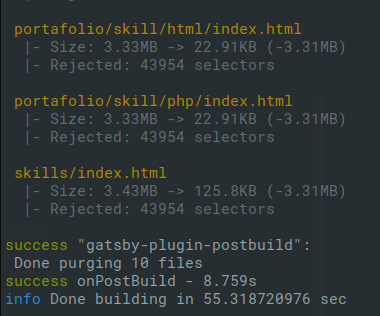
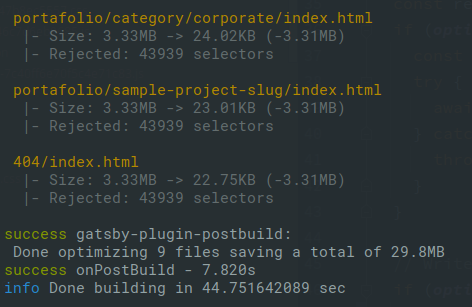
perf(plugin): add total saving to final report

diff --git a/src/index.js b/src/index.js
@@ -1,6 +1,6 @@
 import path from 'path'
 import { promises as fs } from 'fs'
-import { bootstrap, options, reporter } from './util'
+import { bootstrap, debug, reporter, options } from './util'
 import { defaults, schema } from './options'
 
 /**
@@ -32,25 +32,27 @@ export function onPreBootstrap (gatsby, pluginOptions) {
 /**
  * Run plugin tasks after build is complete.
  *
- * @param {Object} gatsby
+ * @param {Object} $0
+ * @param {Function} $0.getNodesByType
  * @return {Promise<void>}
  */
-export async function onPostBuild (gatsby) {
+export async function onPostBuild ({ getNodesByType }) {
   if (!options.enabled) {
     return
   }
-  const pages = gatsby.getNodesByType('SitePage')
+  const pages = getNodesByType('SitePage')
   const html = []
   for (const page of pages) {
     const filename = path.join(options._public, page.path, 'index.html')
     try {
       await fs.access(filename)
       html.push(filename)
-    } catch (e) {}
+    } catch (e) {} // ignore silently
   }
 
   const tasks = require('./tasks')
   try {
+    debug('Running purgecss task on', html)
     await tasks.purgecss({ html })
   } catch (e) {
     reporter.error('Error occured while running purgecss', e)

diff --git a/src/tasks/purgecss/writer.js b/src/tasks/purgecss/writer.js
@@ -4,7 +4,13 @@ import filesize from 'filesize'
 import { options } from '../../util'
 
 export class FileWriter {
+  formatSize
   reports = []
+  saving = 0
+
+  constructor () {
+    this.formatSize = filesize.partial({ spacer: '' })
+  }
 
   /**
    * Writes the purged asset file on disk
@@ -24,6 +30,7 @@ export class FileWriter {
       sizes.push((await fs.stat(file)).size)
       sizes.push(Buffer.byteLength(data))
       sizes.push(sizes[1] - sizes[0])
+      this.saving += sizes[2]
       // Write the actual file
       await fs.writeFile(file, data)
       // Write purged log if enabled
@@ -36,7 +43,7 @@ export class FileWriter {
 
     const r = {
       file: path.relative(options._public, file),
-      sizes: sizes.map(filesize.partial({ spacer: '' })),
+      sizes: sizes.map(this.formatSize),
       rejected: rejected ? purged.length : undefined
     }
     this.reports.push(r)
@@ -58,5 +65,13 @@ export class FileWriter {
 
   getReports () {
     return this.reports
+  }
+
+  getTotalSaving () {
+    const saving = this.saving * -1
+    return [
+      saving,
+      this.formatSize(saving)
+    ]
   }
 }

diff --git a/src/tasks/purgecss/index.js b/src/tasks/purgecss/index.js
@@ -10,10 +10,11 @@ import { createDebug, options, reporter } from '../../util'
 /**
  * Runs purgecss on the html files provided
  *
- * @param {Object} assets Absolute file paths
- * @param   {[string]} assets.html
+ * @param {Object} $0
+ * @param   {[string]} $0.html - html absolute file paths
  */
 export default async function ({ html }) {
+  if (html.length === 0) return
   const debug = createDebug('purgecss')
   const writer = new FileWriter()
   const purger = new Purger(writer)
@@ -43,8 +44,12 @@ export default async function ({ html }) {
 
   // Write success message
   if (options.reportConsole) {
-    // Adds a margin after the last report output
-    console.log('')
+    console.log('') // Adds a margin after the last report output
   }
-  reporter.success(`Done purging ${reports.length} files`)
+  const saving = writer.getTotalSaving()
+  reporter.success(`Done optimizing ${reports.length} files` + (
+    saving[0]
+      ? ` saving a total of ${saving[1]}`
+      : ''
+  ))
 }

diff --git a/src/util.js b/src/util.js
@@ -23,11 +23,10 @@ const store = new Map([
 /**
  * Initializes plguin options and other utilities
  *
- * @param {Object=} args
- * @param   {Object} args.defaultOptions - Options defaults
- * @param   {Object} args.pluginOptions - Plugin options
- * @param   {Object} args.gatsby - Gatsby's onPreBootstrap event object
- * @return {Object} Plugin options
+ * @param {Object} $0
+ * @param   {Object} $0.defaultOptions - Options defaults
+ * @param   {Object} $0.pluginOptions - Plugin options
+ * @param   {Object} $0.gatsby - Gatsby's onPreBootstrap event object
  */
 export function bootstrap ({ defaultOptions, pluginOptions, gatsby }) {
   // Merge user-defined options with defaults

diff --git a/README.md b/README.md
@@ -3,7 +3,7 @@
 
 Gatsby plugin for optimizing/minifying generated HTML/CSS files after build through removal of unused CSS rules.
 
-<img width="380" src=".github/console-screen.png" alt="Console Screen">
+<img width="450" src=".github/console-screen.png" alt="Console Screen">
 
 ---
 - [How it works](#how-it-works)
